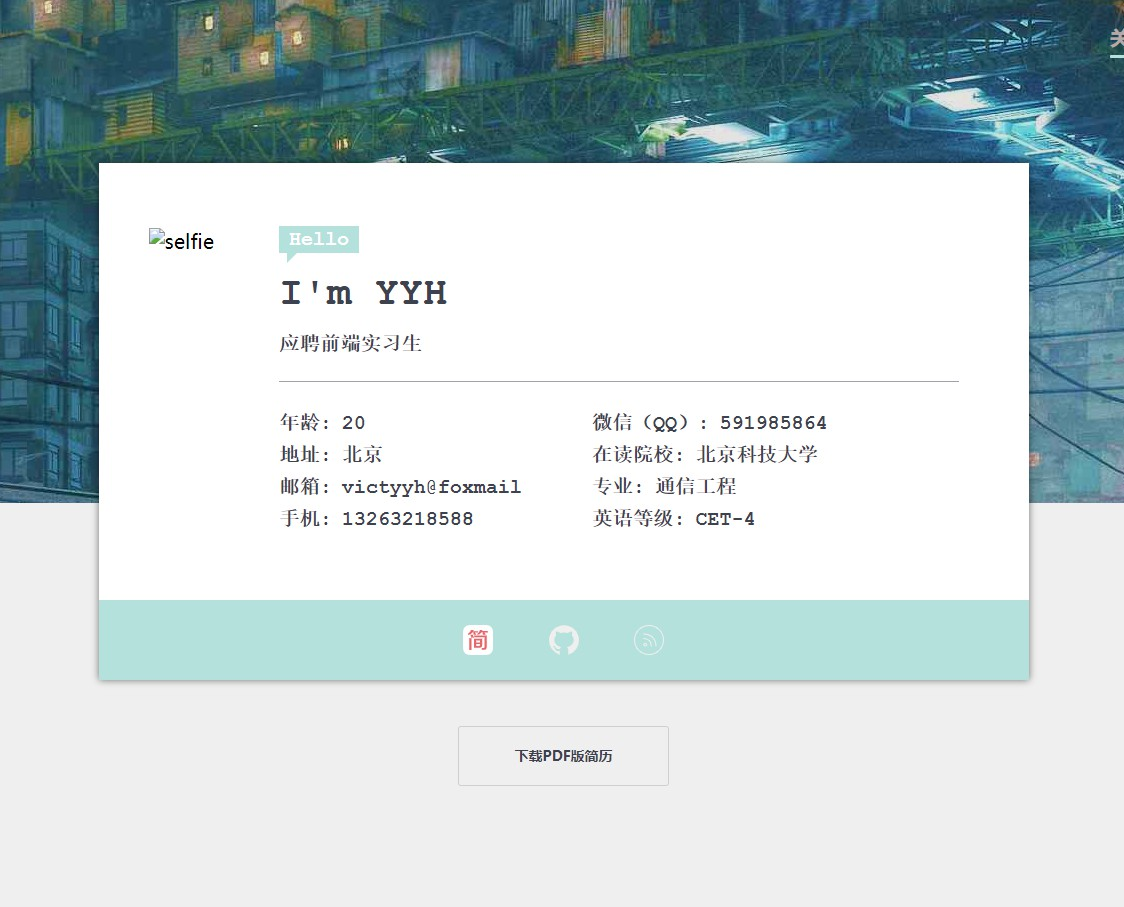
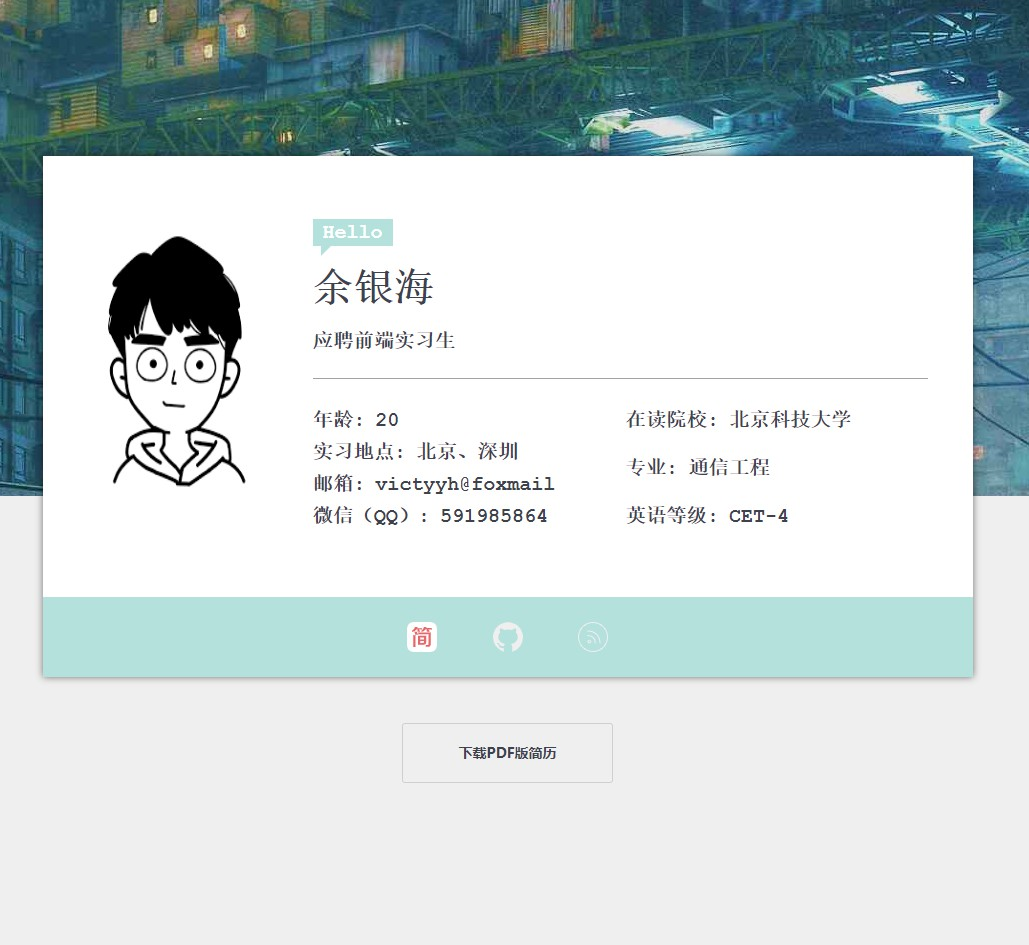
信息修改

Changed region(s): [[0.0, 0.0, 1.0, 0.8644]]

diff --git a/src/index.html b/src/index.html
@@ -51,7 +51,7 @@
         <div class="usercard">
             <div class="selfieAndintro clearfix">
                 <div class="selfie">
-                    <img src="./img/avatar2.jpg" alt="selfie">
+                    <img src="https://i.loli.net/2019/03/19/5c908af7336a3.png" alt="selfie">
                 </div>
                 <div class="intro">
                     <span class="hello">Hello
@@ -117,7 +117,7 @@
                         <span style="width: 60%"></span>
                     </div>
                 </li>
-                <li>jQuery、Bootstrap等前端常用库
+                <li>jQuery、移动端开发
                     <div class="meter  offset">
                         <span style="width: 40%"></span>
                     </div>
@@ -217,7 +217,7 @@
                             <div>项目源码：<a href="https://github.com/yyhsz/resume" target="_blank">点此查看</a></div>
 
                         </div>
-                        <img src="" alt="">
+                        <img src="https://i.loli.net/2019/03/19/5c908c95c8c4c.jpg" style='width:360px'alt="">
                     </div>
                     <div class="works swiper-slide">
                         <div>

diff --git a/src/css/x.css b/src/css/x.css
@@ -178,12 +178,12 @@ ol > li {
   box-shadow: 0px 0px 11px 0px rgba(0, 0, 0, 0.52); }
 
 .usercard .selfie > img {
-  width: 290px;
-  height: 330px;
+  width: 215px;
+  height: 290px;
   background-size: cover; }
 
 .usercard .selfieAndintro {
-  padding: 65px 50px; }
+  padding: 65px 25px; }
 
 .intro .hello {
   background: rgb(180, 225, 220);
@@ -203,8 +203,8 @@ ol > li {
 
 .intro {
   float: left;
-  margin-left: 65px;
-  width: 680px;
+  padding-left: 30px;
+  width: 615px;
   font-family: 'Courier New', Courier, monospace;
   font-weight: bold; }
 
